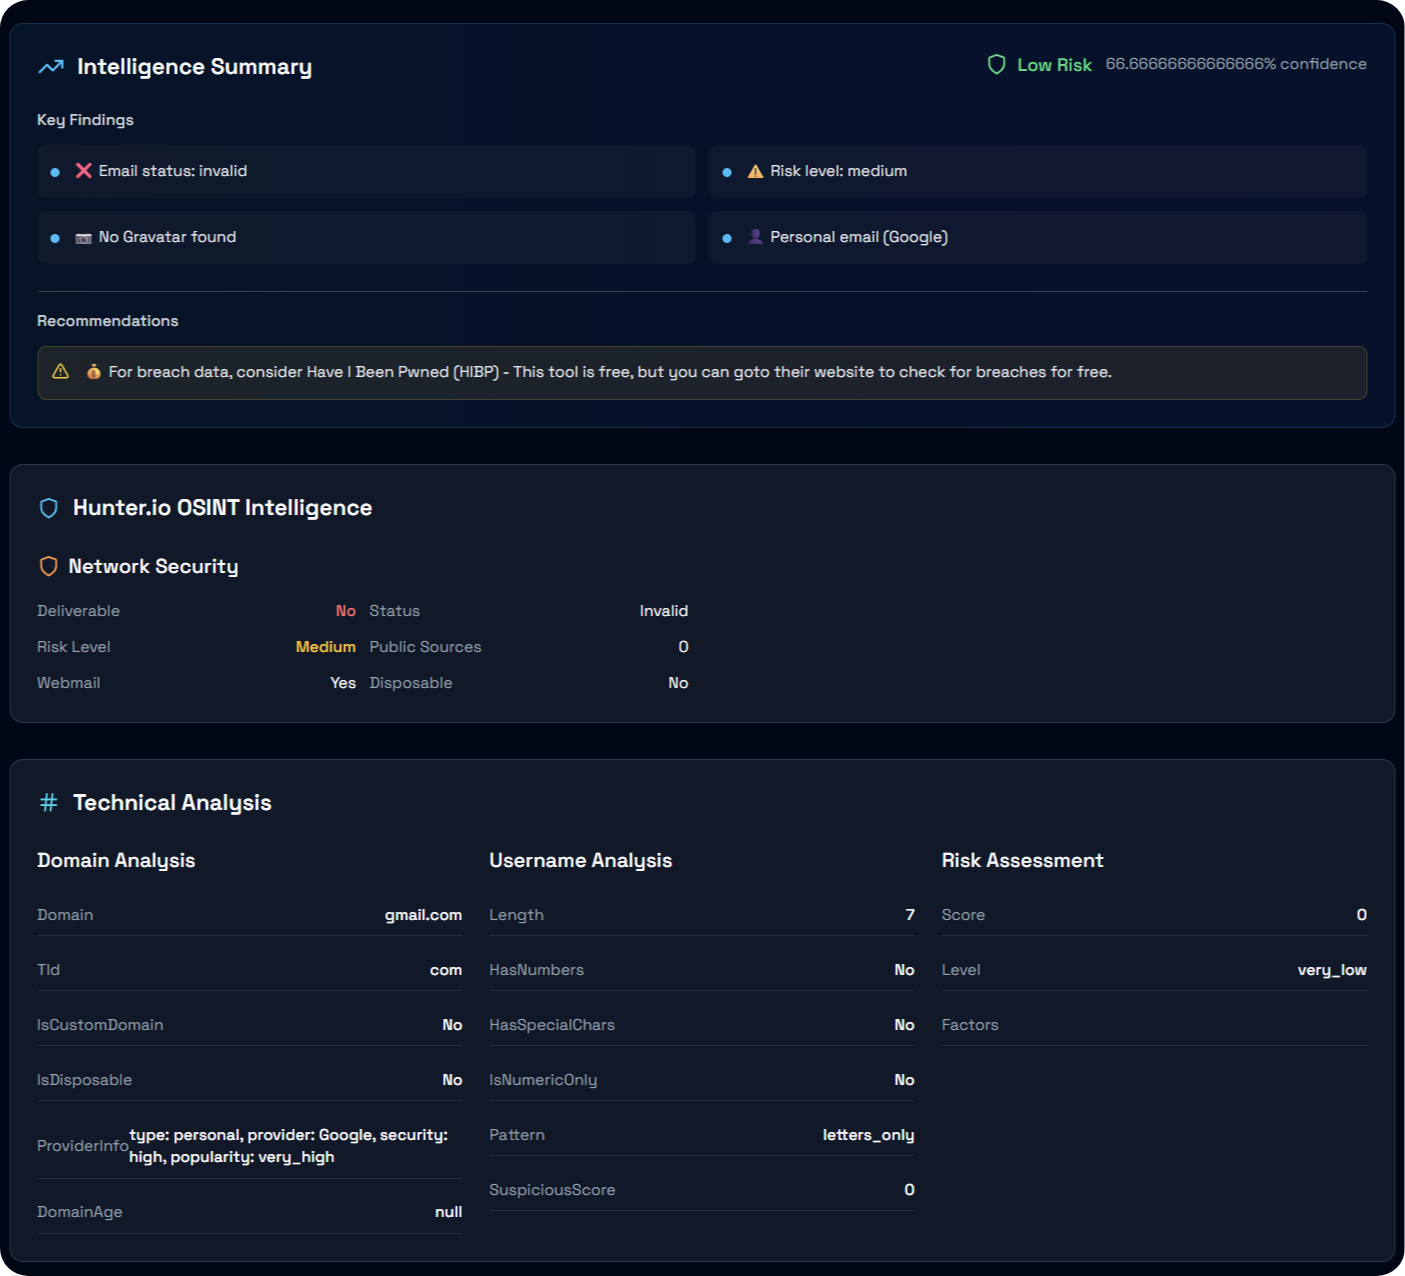
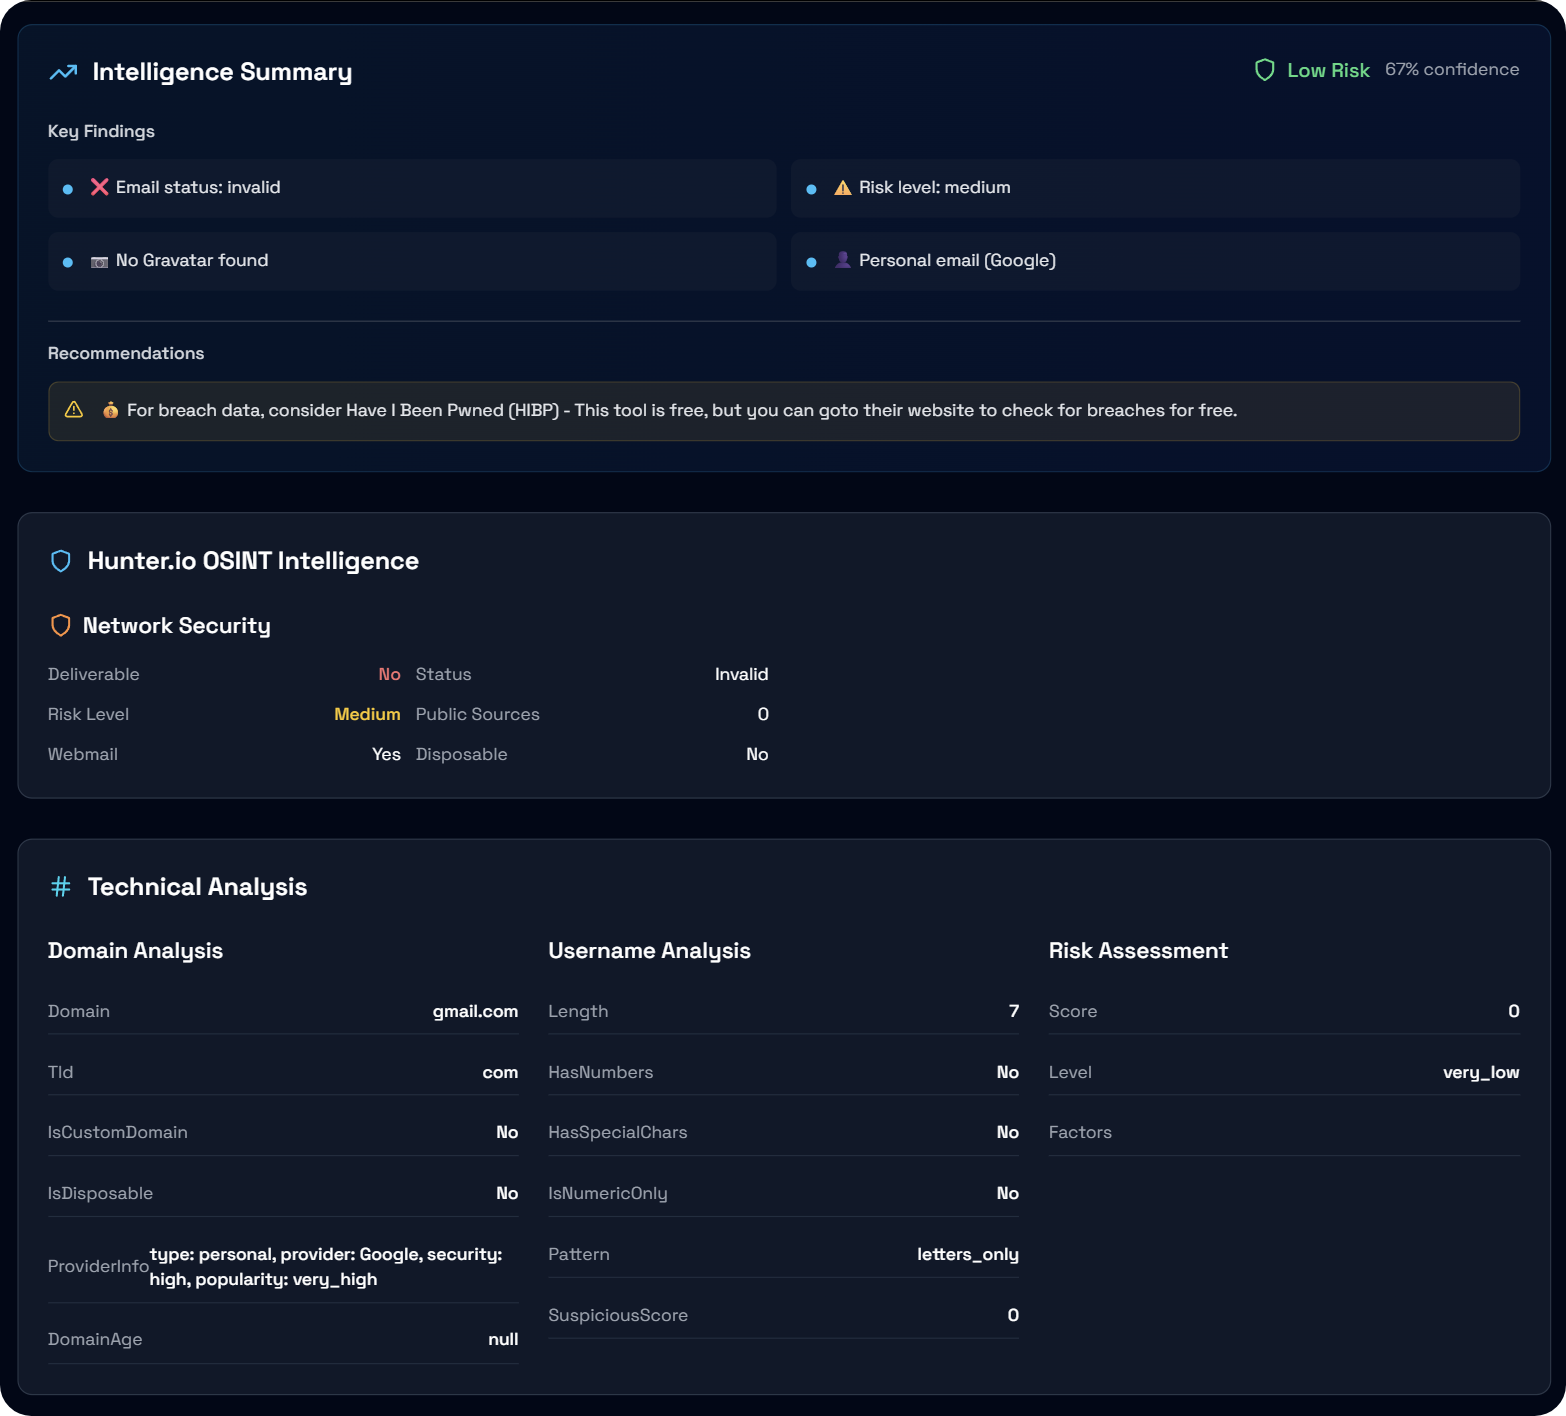
fix the confidence percentage

diff --git a/frontend/src/components/ResultsModal.jsx b/frontend/src/components/ResultsModal.jsx
@@ -513,7 +513,7 @@ const ResultsModal = ({ isOpen, onClose, results, query, queryType }) => {
               </span>
             </div>
             <div className="text-sm text-gray-400">
-              {summary.confidence}% confidence
+              {Math.round(summary.confidence)}% confidence
             </div>
           </div>
         </div>
